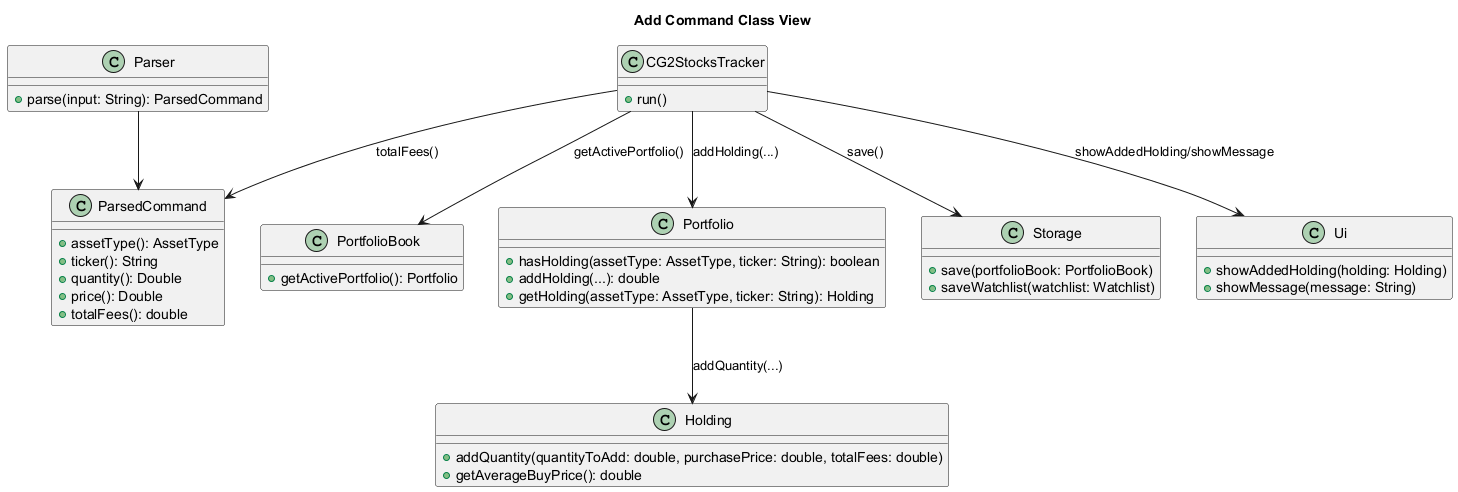
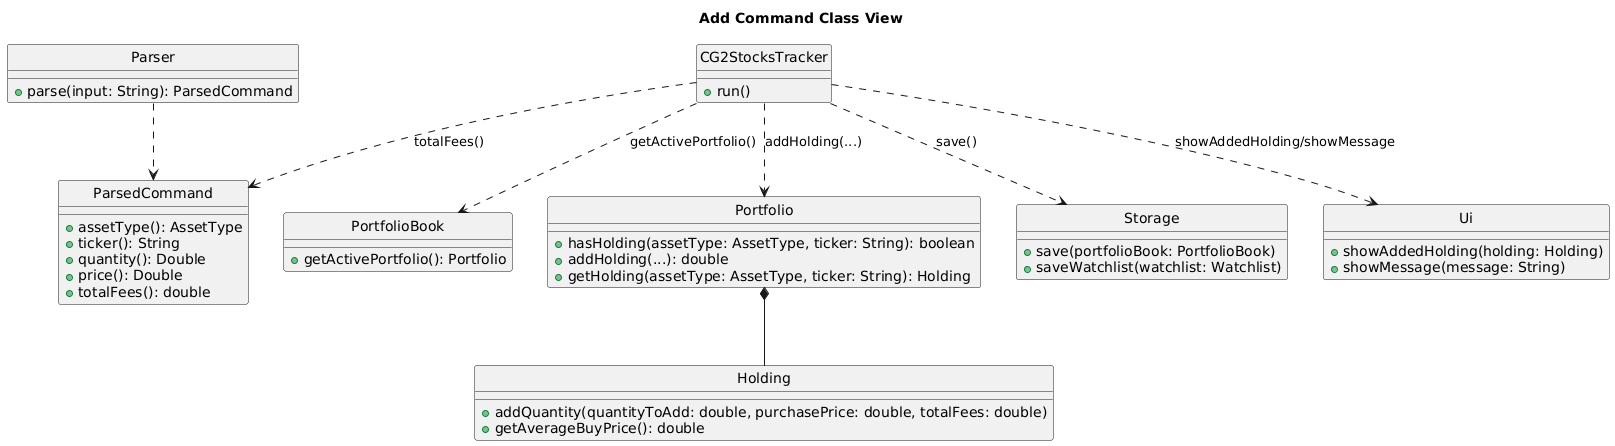
Update UML and fix AboutUs page

diff --git a/docs/AboutUs.md b/docs/AboutUs.md
@@ -1,13 +1,11 @@
 # About us
 
 
-Display |     Name      |             Github Profile             | Portfolio 
-
---------|:-------------:|:--------------------------------------:|:---------:
-
-![](https://via.placeholder.com/100.png?text=Photo) | Rishabh Shenoy | [Github](https://github.com/RishabhShenoy03) | [Portfolio](docs/teams/rishabhshenoy03.md)
-![](https://via.placeholder.com/100.png?text=Photo) | Joel Ku | [Github](https://github.com/joeLku1/ip) | [Portfolio](docs/teams/joelku1.md)
-![](https://via.placeholder.com/100.png?text=Photo) | Joel Ong | [Github](https://github.com/jwelo) | [Portfolio](docs/team/jwelo.md)
-![](https://via.placeholder.com/100.png?text=Photo) | zen wei  | [Github](https://github.com/zenweilow) | [Portfolio](docs/team/zenweilowmd)
-![](https://via.placeholder.com/100.png?text=Photo) | Jerry Andikko | [Github](https://github.com/Elegazia/) | [Portfolio](docs/team/elegazia.md)
+| Display | Name | GitHub Profile | Portfolio |
+| --- | :---: | :---: | :---: |
+| ![](team/photo/rishabh.jpg) | Rishabh Shenoy | [Github](https://github.com/RishabhShenoy03) | [Portfolio](https://ay2526s2-cs2113-w09-4.github.io/tp/team/rishabhshenoy03.html) |
+| ![](team/photo/joelku.jpg) | Joel Ku | [Github](https://github.com/joeLku1/ip) | [Portfolio](https://ay2526s2-cs2113-w09-4.github.io/tp/team/joelku1.html) |
+| ![](team/photo/joelong.jpg) | Joel Ong | [Github](https://github.com/jwelo) | [Portfolio](https://ay2526s2-cs2113-w09-4.github.io/tp/team/jwelo.html) |
+| ![](team/photo/zenwei.jpg) | Low Zen Wei | [Github](https://github.com/zenweilow) | [Portfolio](https://ay2526s2-cs2113-w09-4.github.io/tp/team/zenweilow.html) |
+| ![](team/photo/jerry.jpg) | Jerry Andikko | [Github](https://github.com/Elegazia/) | [Portfolio](https://ay2526s2-cs2113-w09-4.github.io/tp/team/elegazia.html) |
 
